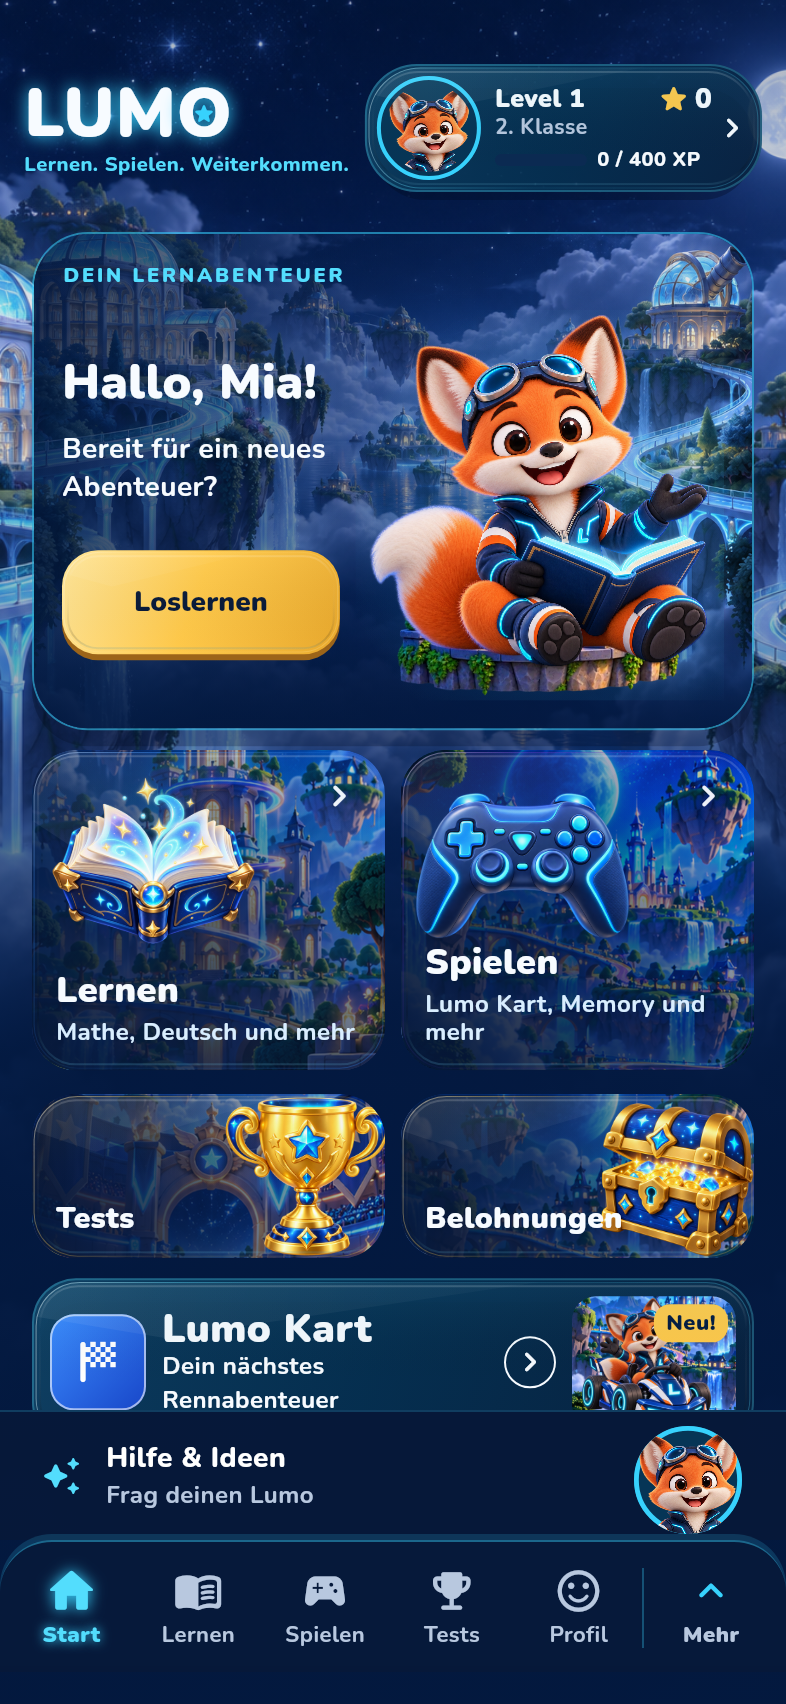
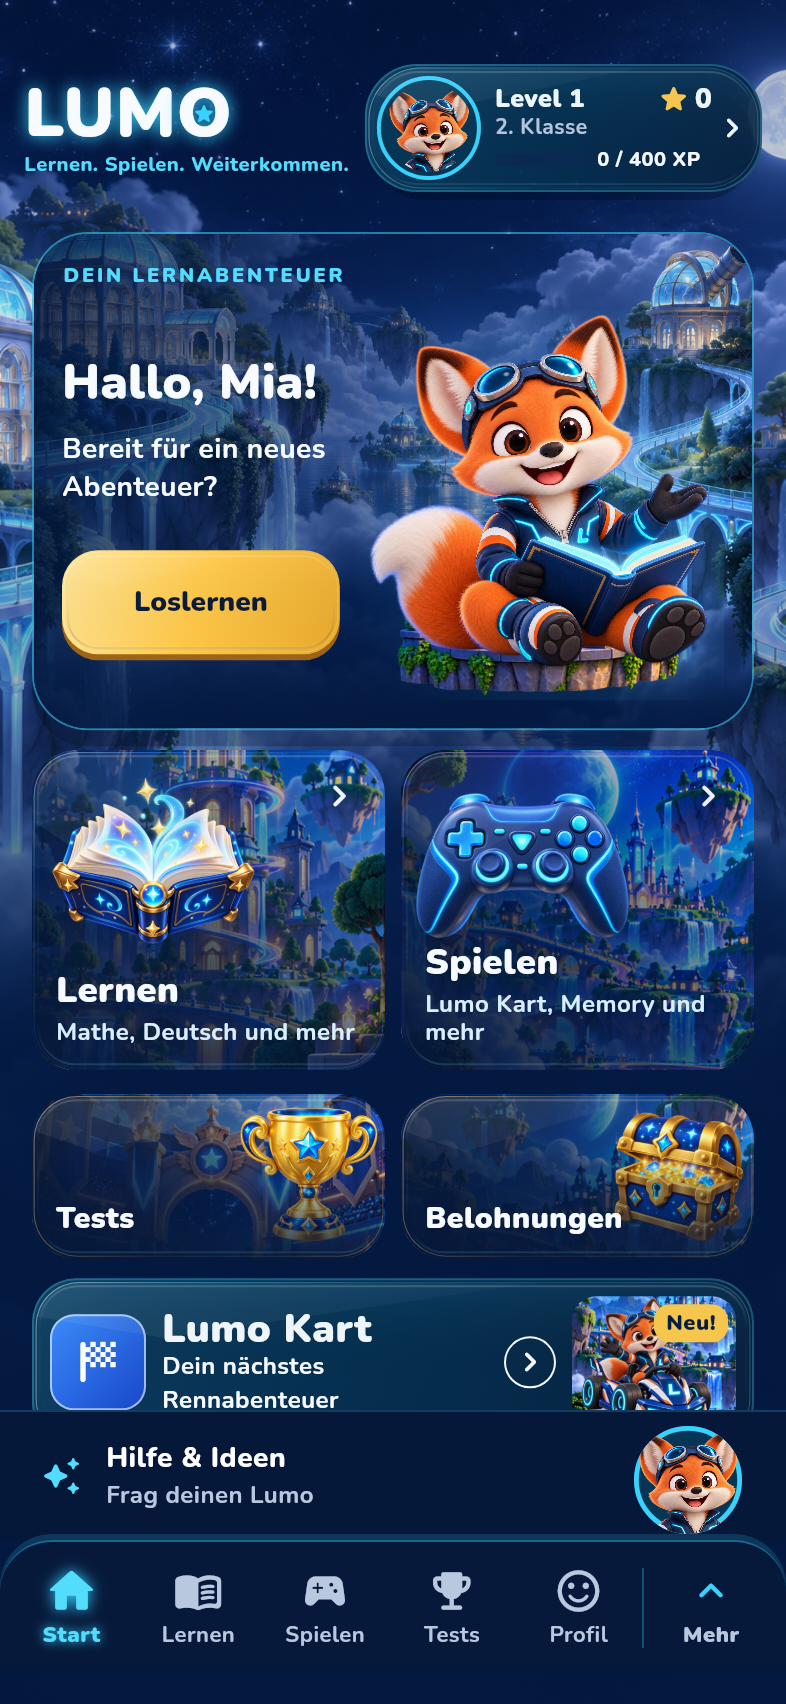
checkpoint(lumo): preserve cloud work at 2026-10-21 06:56 UTC [skip ci]

Changed region(s): [[0.1832, 0.6221, 0.4885, 0.7465], [0.6718, 0.6221, 0.9771, 0.7465]]

diff --git a/test/home_adventure_actions_test.dart b/test/home_adventure_actions_test.dart
@@ -1,0 +1,49 @@
+import 'package:flutter/material.dart';
+import 'package:flutter_test/flutter_test.dart';
+import 'package:shared_preferences/shared_preferences.dart';
+import 'package:lumo_lernen/app/app_state.dart';
+import 'package:lumo_lernen/app/app_theme.dart';
+import 'package:lumo_lernen/features/home/home_content.dart';
+
+import 'helpers/lumo_capture.dart';
+
+void main() {
+  setUpAll(loadLumoCaptureFonts);
+  setUp(() => SharedPreferences.setMockInitialValues({}));
+
+  for (final scale in [1.0, 2.0]) {
+    testWidgets('illustrated secondary actions navigate directly at $scale',
+        (tester) async {
+      await tester.binding.setSurfaceSize(const Size(393, 852));
+      addTearDown(() => tester.binding.setSurfaceSize(null));
+      final app = LumoAppState();
+      addTearDown(app.dispose);
+      final routes = <LumoSection>[];
+      await tester.pumpWidget(MaterialApp(
+        theme: LumoAppTheme.light(),
+        home: MediaQuery(
+          data: MediaQueryData(disableAnimations: true,
+              textScaler: TextScaler.linear(scale)),
+          child: Scaffold(body: HomeContent(appState: app, onSection: routes.add)),
+        ),
+      ));
+      await tester.pump();
+      for (final (key, route) in [
+        ('home-secondary-tests', LumoSection.tests),
+        ('home-secondary-rewards', LumoSection.rewards),
+        ('home-kart-banner', LumoSection.games),
+      ]) {
+        final target = find.byKey(ValueKey(key));
+        await tester.scrollUntilVisible(target, 200,
+            scrollable: find.byType(Scrollable).first);
+        await tester.ensureVisible(target);
+        await tester.pump(const Duration(milliseconds: 250));
+        expect(tester.getSize(target).shortestSide, greaterThanOrEqualTo(48));
+        await tester.tap(target);
+        expect(routes.last, route);
+        expect(tester.takeException(), isNull);
+      }
+      await tester.pumpWidget(const SizedBox.shrink());
+    });
+  }
+}
